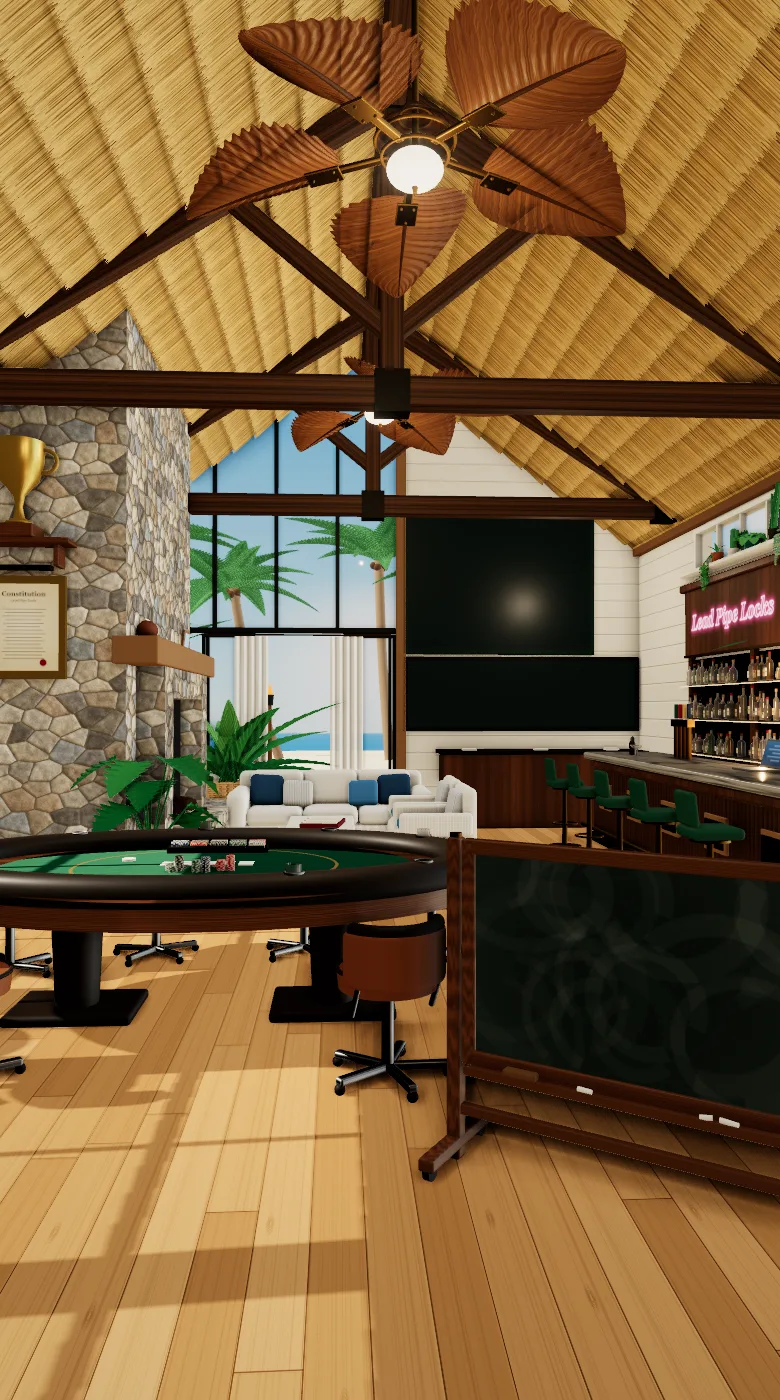
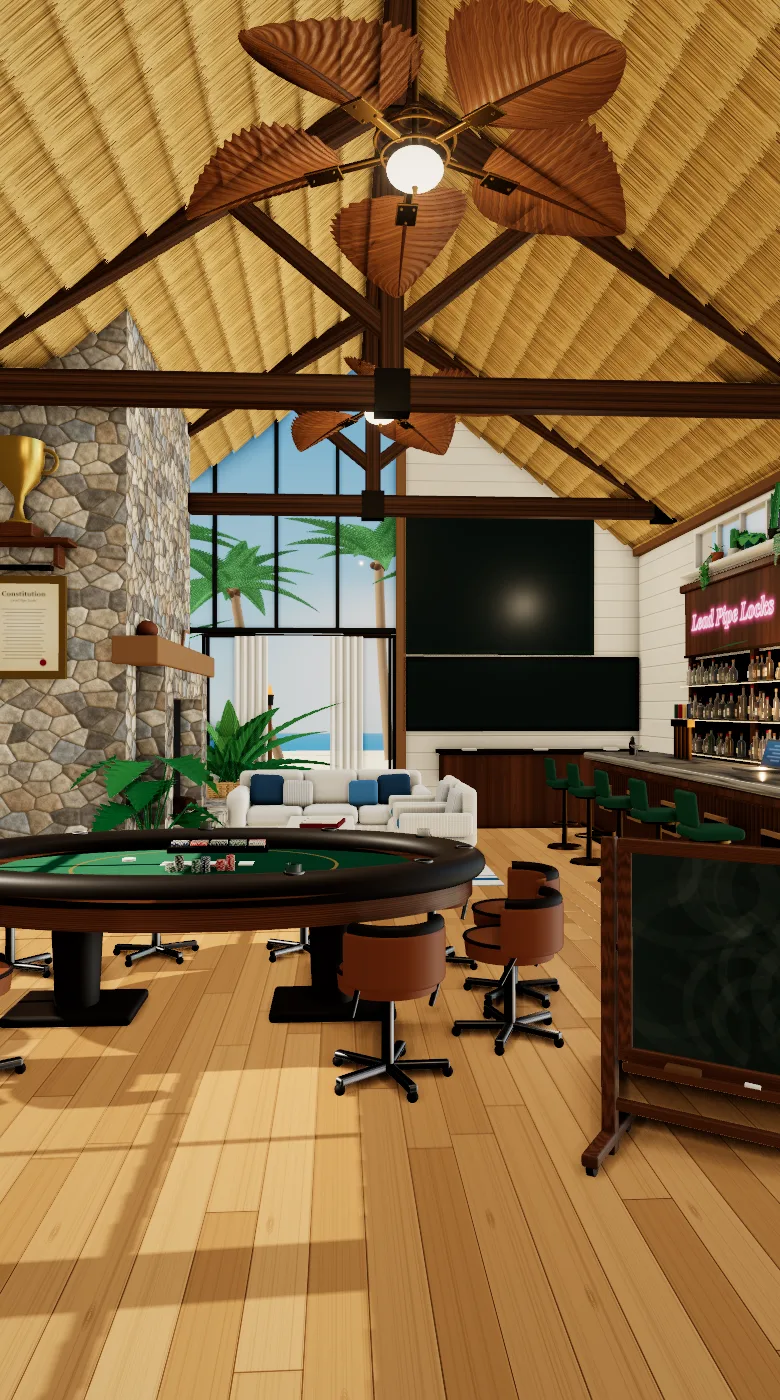
Chalkboard further right on the phone with a Snapshot pill; ticket back to its old frame

Changed region(s): [[0.5231, 0.5836, 1.0, 0.8907], [0.4923, 0.7371, 0.5231, 0.7679]]

diff --git a/src/styles/82-clubhouse-ticket.css b/src/styles/82-clubhouse-ticket.css
@@ -90,12 +90,6 @@
 .clubhouse-page > .lab-room-ticket .slip { border-radius: 14px 14px 0 0; -webkit-mask: radial-gradient(circle 7px at calc(100% - var(--slip-stub)) 0, transparent 96%, black); mask: radial-gradient(circle 7px at calc(100% - var(--slip-stub)) 0, transparent 96%, black); }
 .clubhouse-page > .lab-room-ticket .slip-body { padding-bottom: calc(12px + env(safe-area-inset-bottom)); }
 .clubhouse-page > .lab-room-ticket .slip-body::before { bottom: calc(5px + env(safe-area-inset-bottom)); }
-/* As an app on a phone's home screen the page runs to the very foot of the screen, under its rounded corners: the ticket's paper still
-   runs to the edge, but its frame and everything on it stand clear of the corners. (In the browser its own bar sits there instead.) */
-@media (max-width: 899px) and (display-mode: standalone) {
-  .clubhouse-page > .lab-room-ticket .slip-body { padding-bottom: calc(30px + env(safe-area-inset-bottom)); }
-  .clubhouse-page > .lab-room-ticket .slip-body::before { bottom: calc(22px + env(safe-area-inset-bottom)); }
-}
 /* On a desktop the ticket sits centred at the foot of the screen, the place every pop-up rises from, notched at both ends. */
 @media (min-width: 900px) {
   .clubhouse-page > .lab-room-ticket { bottom: 14px; filter: drop-shadow(0 8px 16px rgba(0, 0, 0, .34)) drop-shadow(0 1px 2px rgba(0, 0, 0, .22)); left: 50%; max-width: 34rem; right: auto; transform: translateX(-50%); width: calc(100% - 32px); }

diff --git a/src/components/clubhouse/room-scene.tsx b/src/components/clubhouse/room-scene.tsx
@@ -34,8 +34,8 @@ const SPOTS: ReadonlyArray<{ spot: string; room: Room; name: string; tag?: strin
   // The chat plate stands on the bar stools just above the chalkboard (owner, 2026-11-22).
   { spot: "chat", room: "chat", name: "Pool chat", tag: "Chat", label: "free", at: { x: 0.82, y: 0.55 }, fullAt: { x: 0.82, y: 0.55 }, wideAt: { x: 0.76, y: 0.64 } },
   // The chalkboard on its stand between the table and the bar: the Season Snapshot, sketched in chalk (and from Dec 7 the Bowl Pool's).
-  // It needs no plate: its own chalk title says what it is (and a plate under it would sit behind your ticket).
-  { spot: "chalkboard", room: "snapshot", name: "Season Snapshot", label: "none" },
+  // A small "Snapshot" pill sits on the board's upper edge so it reads as tappable (owner, 2026-11-22); above your ticket on a phone.
+  { spot: "chalkboard", room: "snapshot", name: "Season Snapshot", tag: "Snapshot", label: "free", at: { x: 0.78, y: 0.66 }, fullAt: { x: 0.8, y: 0.66 }, wideAt: { x: 0.83, y: 0.7 } },
   { spot: "constitution", room: "constitution", name: "Constitution", tag: "Rules", label: "below" },
   // Notifications: a plate like the others, up in the thatch at the right where it covers nothing (the real clubhouse only: it opens
   // the player's own settings).

diff --git a/docs/DECISION_LOG.md b/docs/DECISION_LOG.md
@@ -437,3 +437,7 @@ still open the ticket); a hidden Survivor pick is the same plain green IN as a h
 back; and the Survivor table is one row a player: this week's team on the top line, the teams used before and how many are left on
 the bottom line, with the 32-team sheet one tap away. The lines-per-team felt, the USED/LEFT captions and the week-by-week list in
 the sheet are gone. Lesson kept: for this pool, simpler wins.
+
+## 2026-11-22 - Chalkboard further right on the phone, a Snapshot pill, ticket back to its frame
+
+On the phone the chalkboard stands further right (clear of the poker table) and a small "Snapshot" pill sits on its upper edge so it reads as tappable (the desktop keeps its position and gets the same pill). The phone ticket went back to its old frame: the home-screen-app lift that cleared the rounded corners is removed (the owner would rather have the corner clipped than the frame moved).
